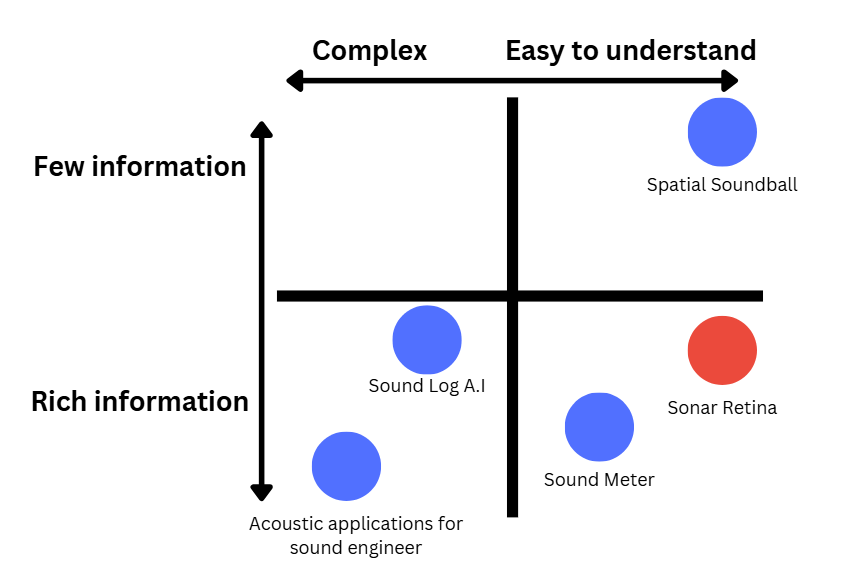
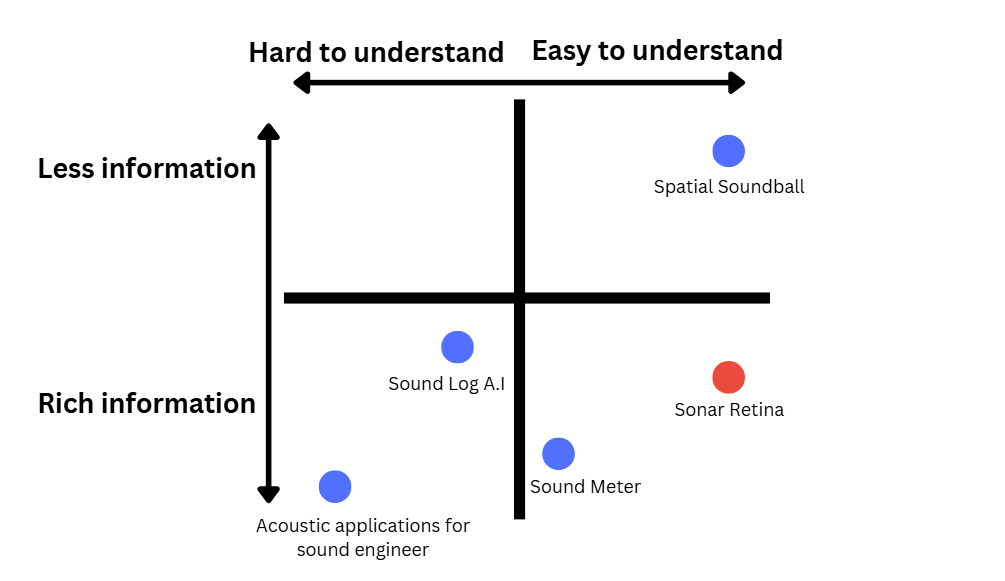
Add bullet points. Change picture and some wording in section2

Changed region(s): [[0.0304, 0.0591, 0.9427, 0.9757]]

diff --git a/body/relatedworks.tex b/body/relatedworks.tex
@@ -11,11 +11,18 @@
     \label{fig:positioning-map}
 \end{figure}
 
-To evaluate the current state of assistive technology for the Deaf and Hard-of-Hearing, a competitive analysis was conducted using the Asana Competitor Analysis Framework. 
-The analysis focused on four core features: sound identification (Sound Type), proximity estimation (Distance), orientation (Direction), and spatial representation (Visualization). 
+To evaluate the current state of assistive technology for the deaf and hard-of-hearing, a competitive analysis was conducted using the Asana Competitor Analysis Framework. 
+The analysis focused on four core features:
+
+\begin{itemize}
+    \item Sound type identification that tells what sound is which Sound Log and Sound Meter have ability to identify.
+    \item Sound source distance estimation that tells how far the sound source is which Sound Meter can estimate it from sound volume.
+    \item Sound source direction which normally implemented in microphone array of sound engineer applications.
+    \item Sound visualization can be various kinds such as sound ball, icon and gauge.
+\end{itemize}
 
 As shown in Figure~\ref{fig:positioning-map}, existing solutions often prioritize information rather than visualization to users. 
-For instance, \textit{Spatial Sound Ball} \cite{SpatialSoundBall} provides high-quality visualization but lacks the analytical AI to identify sound types and directions. 
+For instance, \textit{Spatial Sound Ball} \cite{SpatialSoundBall} provides high-quality visualization but lacks the analytical AI to identify sound type, distance and direction. 
 On the other hand, \textit{Sound Log} \cite{SoundLog} and \textit{Sound Meter} \cite{SoundMeter} offer robust sound identification and decibel tracking, yet they fail to provide the spatial visualization which is necessary for navigation.
 
 \begin{table}[h]
@@ -24,11 +31,11 @@ On the other hand, \textit{Sound Log} \cite{SoundLog} and \textit{Sound Meter} \
 \label{tab:competitor-comparison}
 \begin{tabular}{|l|c|c|c|c|}
 \hline
-\textbf{App Name} & \textbf{Type} & \textbf{Dist.} & \textbf{Dir.} & \textbf{Vis.} \\ \hline
-Spatial Sound Ball & N & N & N & Y \\ \hline
-Sound Log & Y & N & N & N \\ \hline
-Sound Meter & Y & Y & N & N \\ \hline
-\textbf{Sonar Retina (Proposed)} & \textbf{Y} & \textbf{Y} & \textbf{Y} & \textbf{Y} \\ \hline
+\textbf{App Name} & \textbf{Type} & \textbf{Distance} & \textbf{Direction} & \textbf{Visualization} \\ \hline
+Spatial Sound Ball & N & N & N & Ball \\ \hline
+Sound Log & Y & N & N & Text \\ \hline
+Sound Meter & Y & Y & N & Gauge and text \\ \hline
+\textbf{Sonar Retina (Proposed)} & \textbf{Y} & \textbf{Y} & \textbf{Y} & \textbf{Icon} \\ \hline
 \end{tabular}
 \end{table}
 
@@ -38,19 +45,19 @@ This holistic approach addresses the primary limitation of current competitors: 
 \section{Literature Review}
 \label{section:literature-review}
 
-The technical foundation of this project rests on three critical pillars: Sound Source Localization (SSL), Sound Event Detection (SED), and Human-Computer Interaction (HCI) tailored for the Deaf and Hard-of-Hearing community.
+The technical foundation of this project rests on three critical pillars: Sound Source Localization (SSL), Sound Event Detection (SED), and Human-Computer Interaction (HCI) tailored for the deaf and hard-of-hearing community.
 
-\subsection{Sound Source Localization (SSL) on Mobile Hardware}
+\subsection{SSL on Mobile Hardware}
 \label{subsec:ssl}
 The first technical pillar of this project is the precise localization of sound events. 
-According to the systematic review by \cite{Liaquat2021}, Sound Source Localization (SSL) is a mature field but faces unique challenges when applied to ad-hoc microphone arrays such as those found in consumer mobile devices. 
+According to the systematic review by \cite{Liaquat2021}, SSL is a mature field but faces unique challenges when applied to ad-hoc microphone arrays such as those found in consumer mobile devices. 
 The review highlights that while traditional Time Difference of Arrival (TDOA) methods are highly effective, they are sensitive to environmental noise and reverberation—factors that are prevalent in the common settings our application targets.
 \\
 \\
 \textbf{Design Decision:} Building on the comparative analysis provided by Liaquat et al., we chose to implement a robust cross-correlation algorithm (GCC-PHAT). 
 This method provides the best balance between computational efficiency for real-time mobile use and the accuracy required to visualize the horizontal direction of sound for the user.
 
-\subsection{Sound Event Detection (SED) using Deep Learning}
+\subsection{SED using Deep Learning}
 \label{subsec:sed}
 Identifying "what" a sound is requires robust classification. 
 We adopt recent advancements in Convolutional Neural Networks (CNNs) optimized for environmental audio. 
